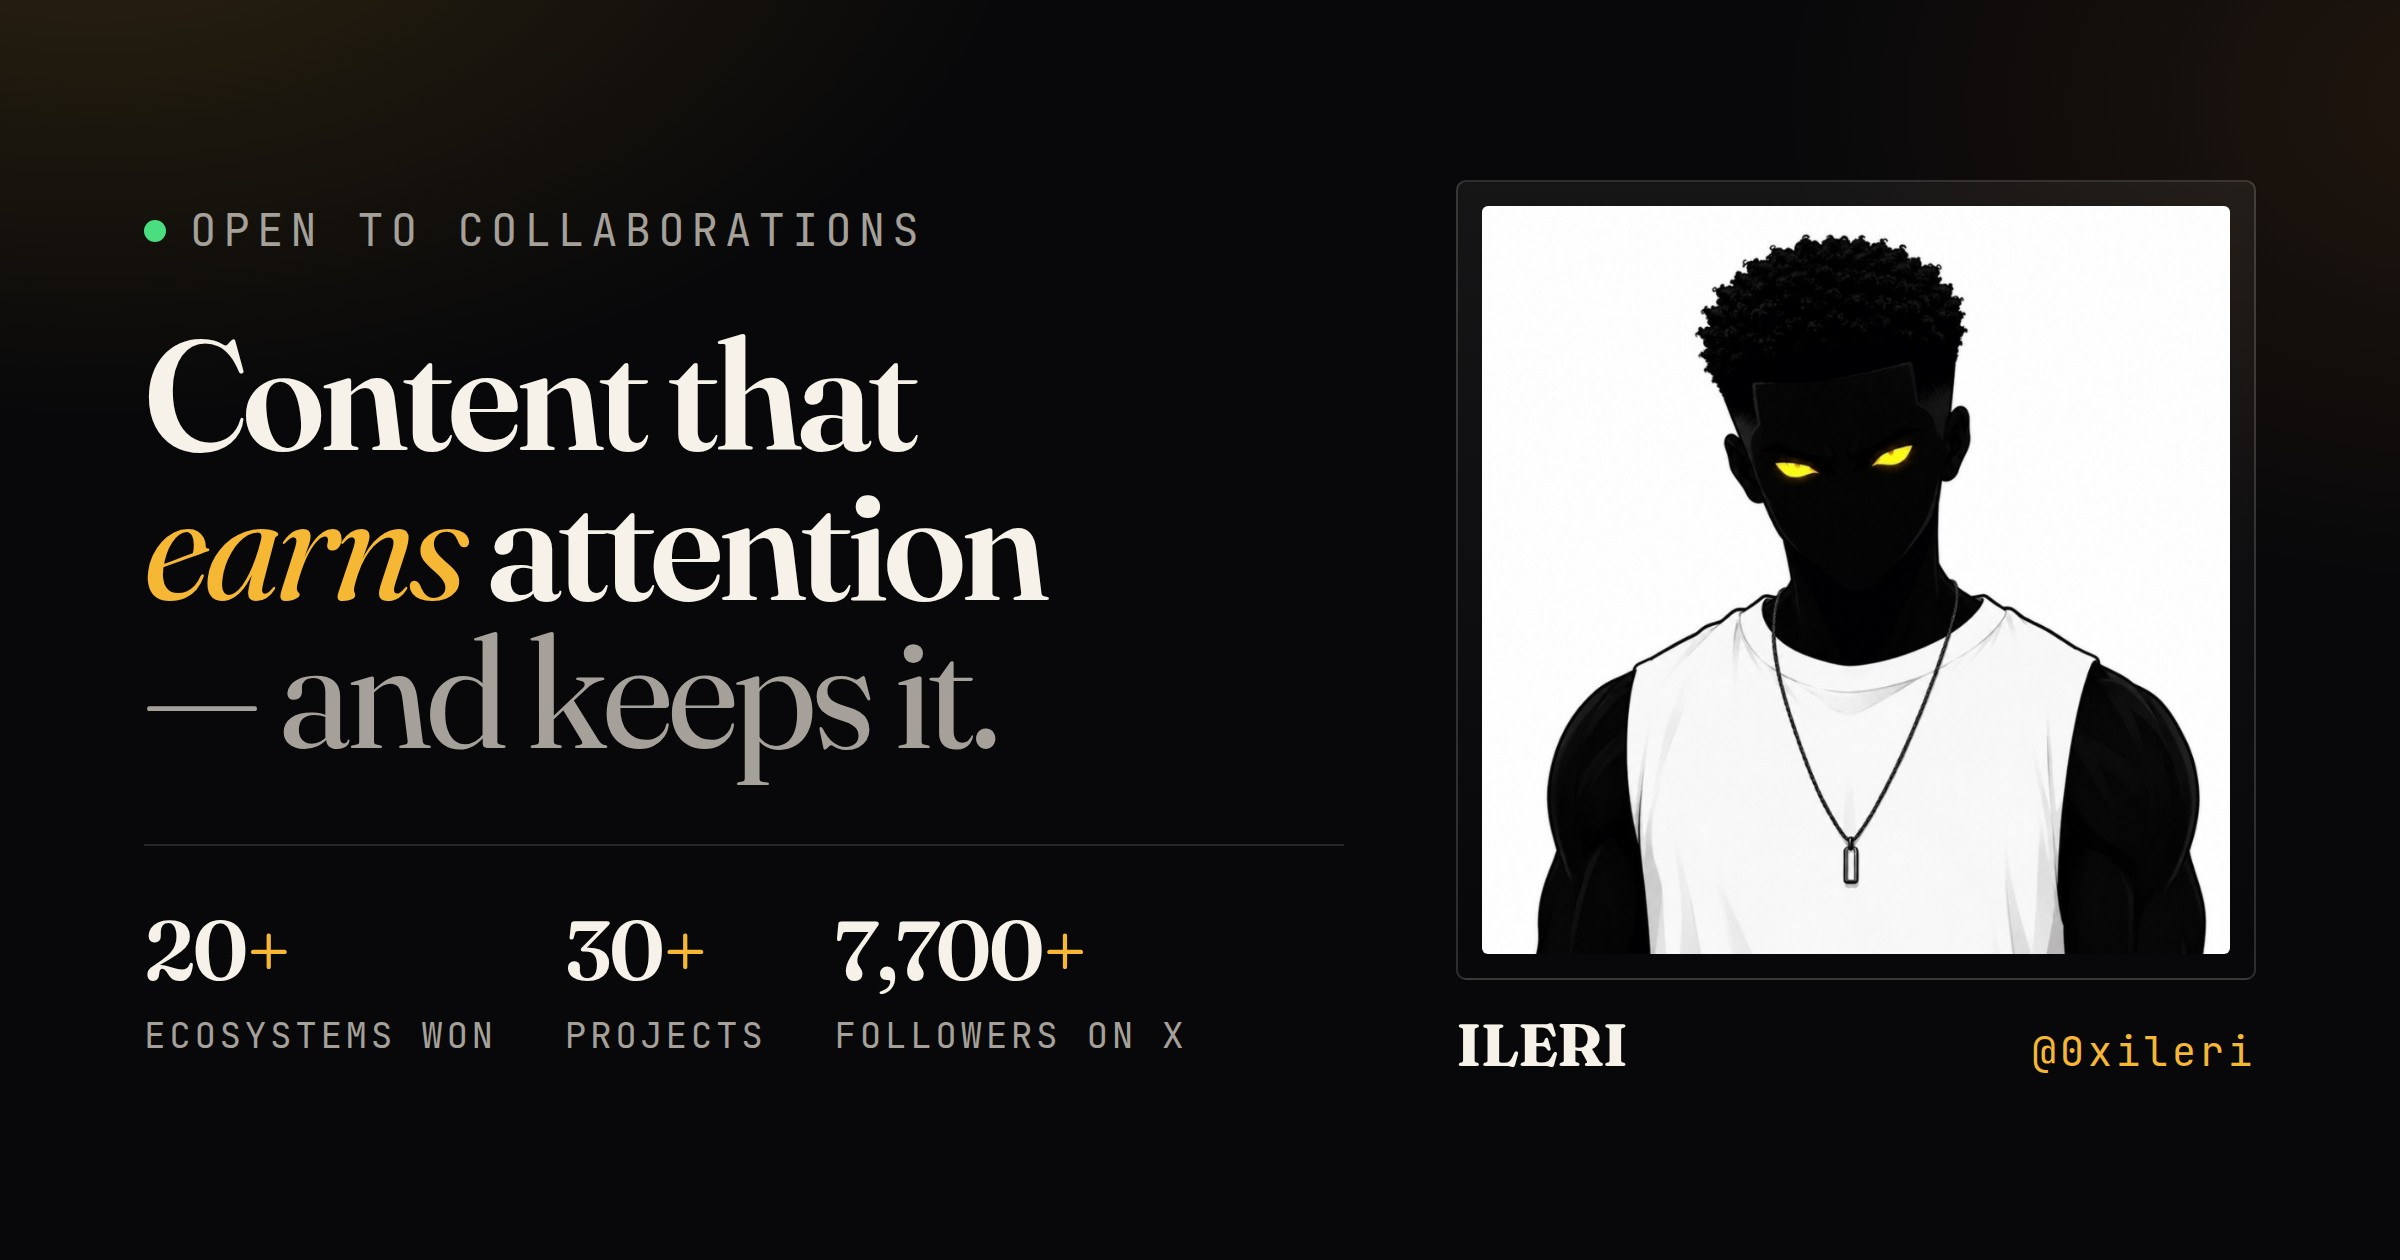
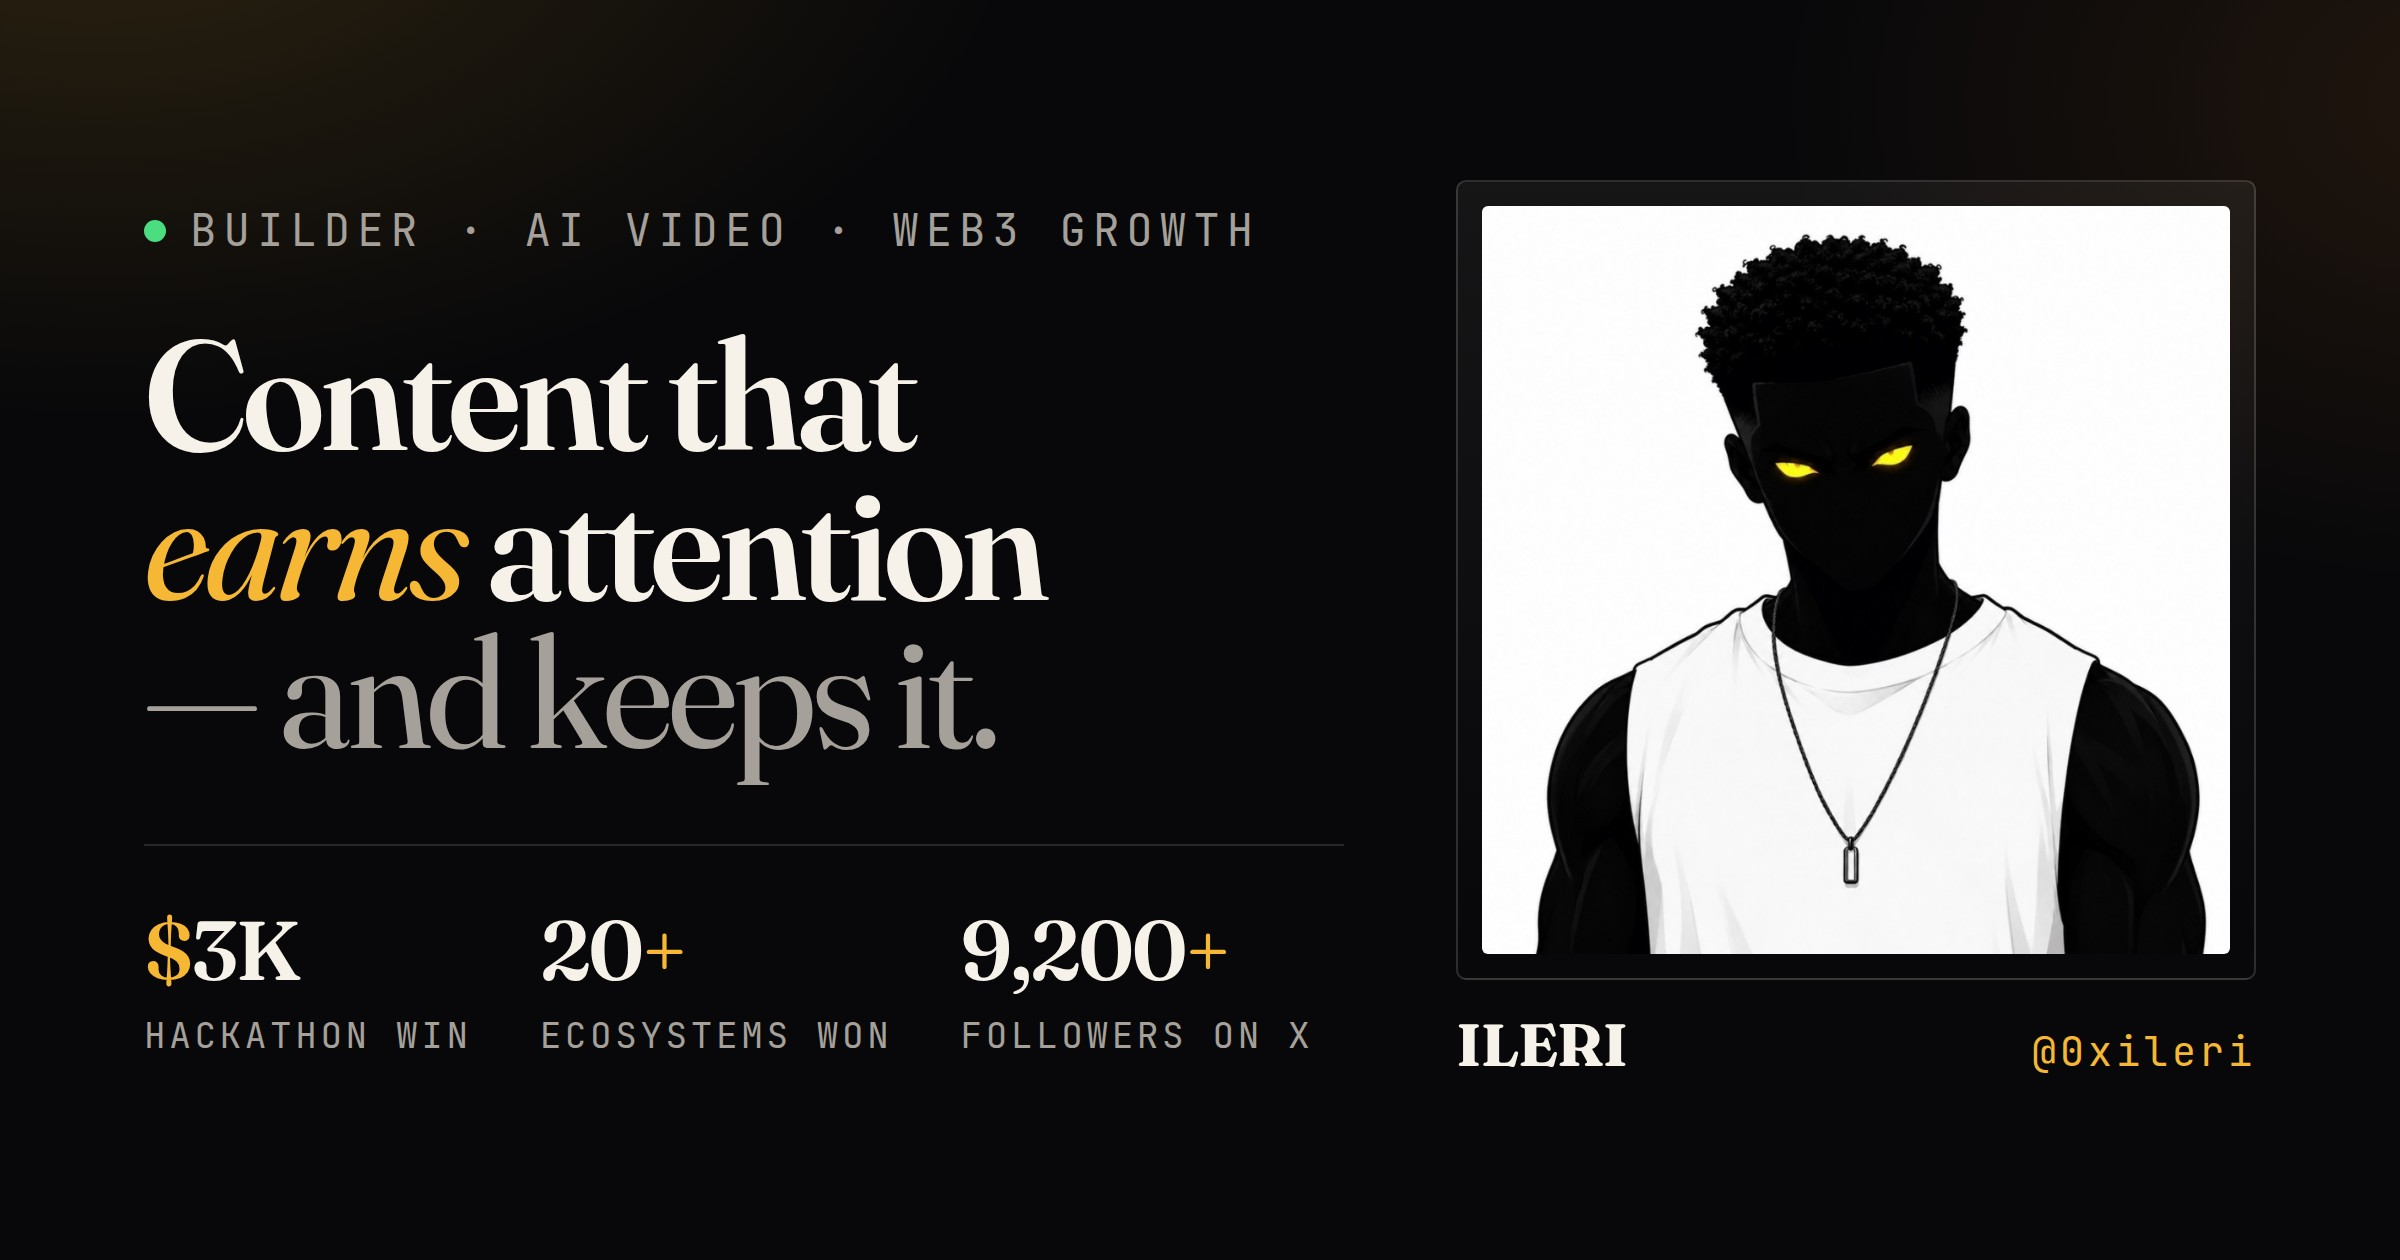
Update follower count, positioning, and add the OKX hackathon win
- Followers 7,700+ -> 9,200+ (stats, hero strip, share card).
- Positioning now leads with builder and AI video maker: tagline, role,
  bio, page title and meta description. The AI service is retitled
  "AI Video & Creative" so the video work is explicit rather than implied.
- Adds the $3,000 OKX hackathon win to the results index as a new
  "Hackathon" category, puts OKX in the ecosystem ticker, and widens the
  index lead and recognition copy to cover hackathons.
- Share card leads with $3K / 20+ / 9,200+.

Two supporting changes:

The index rendered every row as an anchor. The OKX entry has no public
post yet, so a link-less row would have been a dead <a> with a
open-in-new-tab arrow promising navigation that does nothing. Rows
without a url now render as plain divs with no arrow and no hover
affordance; add a url later and the row becomes a link with no other
change.

The hero status line broke mid-phrase between "AI" and "VIDEO MAKER"
once the tagline grew. Each phrase is now its own nowrap span, so the
line only breaks at a separator.

Claude-Session: https://claude.ai/code/session_01NapFnyrKN31XQ4aVAbXH3i

diff --git a/src/data.js b/src/data.js
@@ -10,12 +10,12 @@ export const profile = {
   name: 'ILERI',
   handle: '@0xileri',
   handleUrl: 'https://x.com/0xileri',
-  tagline: 'AI Creator · Web3 Content & Growth',
-  role: 'Content creator & growth specialist',
+  tagline: 'Builder · AI Video Maker · Web3 Content & Growth',
+  role: 'Builder, AI video maker & growth specialist',
   available: 'Open to collaborations',
-  bio: "I help web3 projects grow through content, community, and campaigns — focused on AI, NFTs, and digital culture. Over the past few years I've built an organic audience on X and collected wins across 20+ ecosystems by creating content that actually resonates.",
+  bio: "I build, I make AI video, and I help web3 projects grow through content, community, and campaigns — focused on AI, NFTs, and digital culture. Over the past few years I've built an organic audience on X and collected wins across 20+ ecosystems by creating things that actually resonate.",
   bioShort:
-    'I make content that earns attention — and turns it into community, campaign wins, and growth for the projects I work with.',
+    'Builder and AI video maker. I make things that earn attention — and turn it into community, campaign wins, and growth for the projects I work with.',
   email: 'bapkingboss2@gmail.com',
 }
 
@@ -32,7 +32,7 @@ export const telegram = {
 }
 
 export const stats = [
-  { value: '7,700', suffix: '+', label: 'Followers built organically on X' },
+  { value: '9,200', suffix: '+', label: 'Followers built organically on X' },
   { value: '30', suffix: '+', label: 'Web3 projects collaborated with' },
   { value: '20', suffix: '+', label: 'Ecosystems with bounty wins' },
   { value: '3', suffix: '', label: 'Active roles across live ecosystems' },
@@ -40,7 +40,7 @@ export const stats = [
 
 /* Three-up strip under the hero. */
 export const heroMeta = [
-  { key: 'Reach', value: '7,700+ organic followers on X' },
+  { key: 'Reach', value: '9,200+ organic followers on X' },
   { key: 'Collaborations', value: '30+ web3 projects shipped with' },
   { key: 'Recognition', value: 'Wins across 20+ ecosystems' },
 ]
@@ -53,6 +53,7 @@ export const roles = [
 
 /* Marquee ticker — ecosystems and projects worked with. */
 export const ticker = [
+  'OKX',
   'LaunchMyNFT',
   'Bungee',
   'PerleLabs',
@@ -87,10 +88,10 @@ export const services = [
   },
   {
     id: 'ai',
-    title: 'AI Creative',
+    title: 'AI Video & Creative',
     summary:
       'AI-generated video, imagery, and concept work for brands that want to move faster than a production schedule — without looking like everyone else.',
-    deliverables: ['AI video & imagery', 'Concept direction', 'Creative iteration', 'Brand-safe output'],
+    deliverables: ['AI video production', 'Imagery & concept art', 'Creative direction', 'Brand-safe output'],
   },
 ]
 
@@ -103,6 +104,12 @@ export const process = [
 ]
 
 export const achievements = [
+  {
+    project: 'OKX',
+    result: '$3,000 Hackathon Win',
+    type: 'Hackathon',
+    detail: 'Won the OKX hackathon and took home a $3,000 prize.',
+  },
   {
     project: 'LaunchMyNFT',
     result: '1st Place Winner',
@@ -214,7 +221,7 @@ export const featured = [
 ]
 
 export const recognition =
-  'Rewards, placements, and ecosystem recognition across multiple web3 projects — earned through content creation, growth initiatives, community participation, and marketing campaigns.'
+  'Prizes, placements, and ecosystem recognition across multiple web3 projects — earned through building, content creation, growth initiatives, community participation, and marketing campaigns.'
 
 export const proofOfWork = [
   { project: 'LaunchMyNFT', label: '1st place screenshot', image: launchMyNftProof, url: 'https://x.com/0xileri/status/2049553153738117425' },

diff --git a/src/components/Achievements.jsx b/src/components/Achievements.jsx
@@ -22,7 +22,7 @@ export default function Achievements() {
         num="06"
         label="Index"
         title={<>Every <em>result</em>, on the record</>}
-        lead="Bounty wins, leaderboard placements, and NFT spots across web3 ecosystems."
+        lead="Hackathon prizes, bounty wins, leaderboard placements, and NFT spots across web3 ecosystems."
       />
 
       <div className="filters reveal">
@@ -41,23 +41,31 @@ export default function Achievements() {
       </div>
 
       <div className="index reveal" style={{ '--i': 1 }}>
-        {rows.map((a, i) => (
-          <a
-            className="index__row"
-            key={a.project}
-            href={a.url}
-            target="_blank"
-            rel="noreferrer"
-          >
-            <span className="index__num">{String(i + 1).padStart(2, '0')}</span>
-            <span className="index__project">{a.project}</span>
-            <span className="index__detail">{a.detail}</span>
-            <span className="index__result">{a.result}</span>
-            <span className="index__go" aria-hidden="true">
-              <ArrowUpRight />
-            </span>
-          </a>
-        ))}
+        {rows.map((a, i) => {
+          // Entries without a public post render as plain rows, not dead links.
+          const Row = a.url ? 'a' : 'div'
+          const linkProps = a.url
+            ? { href: a.url, target: '_blank', rel: 'noreferrer' }
+            : undefined
+
+          return (
+            <Row
+              className={`index__row${a.url ? '' : ' index__row--static'}`}
+              key={a.project}
+              {...linkProps}
+            >
+              <span className="index__num">{String(i + 1).padStart(2, '0')}</span>
+              <span className="index__project">{a.project}</span>
+              <span className="index__detail">{a.detail}</span>
+              <span className="index__result">{a.result}</span>
+              {a.url && (
+                <span className="index__go" aria-hidden="true">
+                  <ArrowUpRight />
+                </span>
+              )}
+            </Row>
+          )
+        })}
         {!rows.length && <p className="index__empty">Nothing in this category yet.</p>}
       </div>
 

diff --git a/index.html b/index.html
@@ -6,17 +6,17 @@
     <meta name="viewport" content="width=device-width, initial-scale=1.0" />
     <meta name="theme-color" content="#08080a" />
 
-    <title>ILERI — Web3 Content Creator, AI Creator & Growth Specialist</title>
+    <title>ILERI — Builder, AI Video Maker & Web3 Growth Specialist</title>
     <meta
       name="description"
-      content="ILERI (@0xileri) — AI creator, web3 content creator and growth specialist. 20+ ecosystems with bounty wins, 30+ project collaborations, and receipts to prove it."
+      content="ILERI (@0xileri) — builder, AI video maker and web3 growth specialist. A $3,000 OKX hackathon win, 20+ ecosystems with bounty wins, and receipts to prove it."
     />
 
     <meta property="og:type" content="website" />
-    <meta property="og:title" content="ILERI — Web3 Content Creator, AI Creator & Growth Specialist" />
+    <meta property="og:title" content="ILERI — Builder, AI Video Maker & Web3 Growth Specialist" />
     <meta
       property="og:description"
-      content="Content, campaigns and community that make web3 projects grow. 20+ ecosystems with bounty wins — with the receipts."
+      content="Building, AI video, and campaigns that make web3 projects grow. A $3,000 OKX hackathon win and 20+ ecosystems with bounty wins — with the receipts."
     />
     <!-- og.jpg is generated from scripts/og-card.html; see the README.
          NOTE: og:image should be an absolute URL once the domain is known.
@@ -26,7 +26,7 @@
     <meta property="og:image:height" content="1260" />
     <meta
       property="og:image:alt"
-      content="ILERI — content that earns attention. 20+ ecosystems won, 30+ projects, 7,700+ followers on X."
+      content="ILERI — content that earns attention. $3,000 OKX hackathon win, 20+ ecosystems won, 9,200+ followers on X."
     />
     <meta name="twitter:card" content="summary_large_image" />
     <meta name="twitter:image" content="/og.jpg" />

diff --git a/scripts/og-card.html b/scripts/og-card.html
@@ -148,16 +148,16 @@
 <body>
   <div class="card">
     <div>
-      <p class="eyebrow"><span class="dot"></span>Open to collaborations</p>
+      <p class="eyebrow"><span class="dot"></span>Builder · AI video · Web3 growth</p>
       <h1>
         Content that<br />
         <em>earns</em> attention<br />
         <span class="thin">— and keeps it.</span>
       </h1>
       <div class="meta">
+        <div><b><span>$</span>3K</b><small>Hackathon win</small></div>
         <div><b>20<span>+</span></b><small>Ecosystems won</small></div>
-        <div><b>30<span>+</span></b><small>Projects</small></div>
-        <div><b>7,700<span>+</span></b><small>Followers on X</small></div>
+        <div><b>9,200<span>+</span></b><small>Followers on X</small></div>
       </div>
     </div>
 

diff --git a/src/components/Hero.jsx b/src/components/Hero.jsx
@@ -9,7 +9,13 @@ export default function Hero() {
         <div>
           <p className="hero__status reveal">
             <span className="pulse" />
-            {profile.available} · {profile.tagline}
+            {[profile.available, ...profile.tagline.split(' · ')].map((part, i) => (
+              // Each phrase stays whole; only the separators are break points.
+              <span className="hero__status-part" key={part}>
+                {i > 0 && <span className="hero__status-sep"> · </span>}
+                {part}
+              </span>
+            ))}
           </p>
 
           <h1 className="hero__title reveal" style={{ '--i': 1 }}>

diff --git a/src/components/About.jsx b/src/components/About.jsx
@@ -18,8 +18,9 @@ export default function About() {
             <p>{profile.bio}</p>
             <p>
               Most of that work has been earned rather than assigned: campaigns entered
-              alongside thousands of other creators, judged on the content itself. The wins
-              below are the ones that came with a public announcement attached.
+              alongside thousands of other creators, hackathons judged on what actually got
+              built, and content judged on its own merit. The wins below are the ones that
+              came with a public result attached.
             </p>
           </div>
 

diff --git a/src/App.css b/src/App.css
@@ -454,6 +454,14 @@ main {
   vertical-align: middle;
 }
 
+.hero__status-part {
+  white-space: nowrap;
+}
+
+.hero__status-sep {
+  white-space: normal;
+}
+
 .pulse {
   position: relative;
   width: 7px;
@@ -1192,6 +1200,19 @@ main {
 .index__row:hover .index__go {
   color: var(--amber);
   transform: translate(3px, -3px);
+}
+
+/* A row with no post to link to: keep the grid, drop the hover affordance. */
+.index__row--static {
+  cursor: default;
+}
+
+.index__row--static:hover {
+  padding-left: clamp(6px, 1.4vw, 18px);
+}
+
+.index__row--static::before {
+  content: none;
 }
 
 .index__empty {
